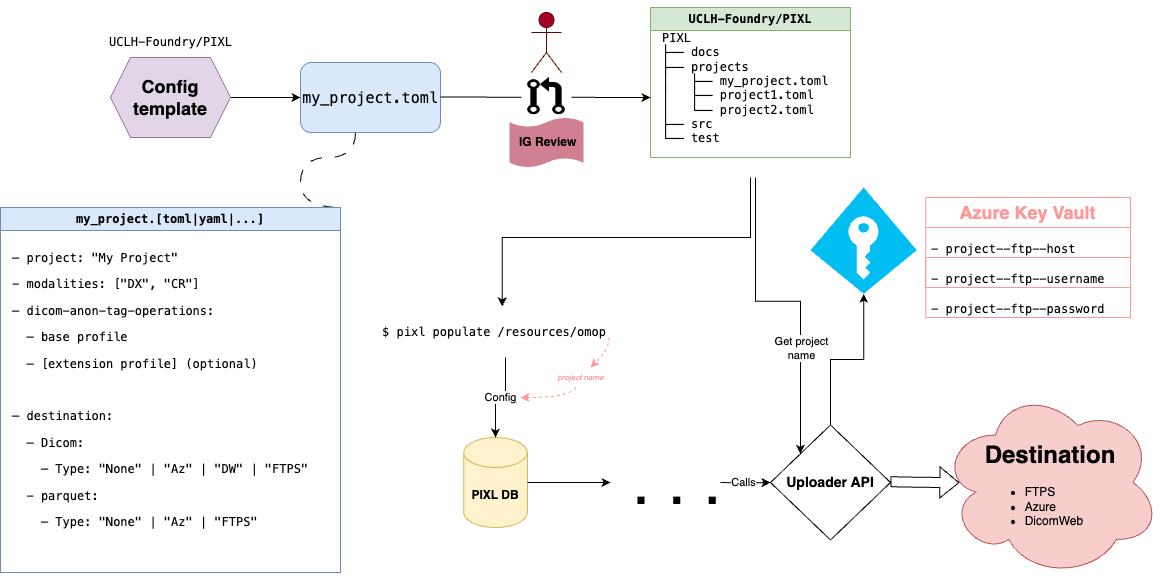
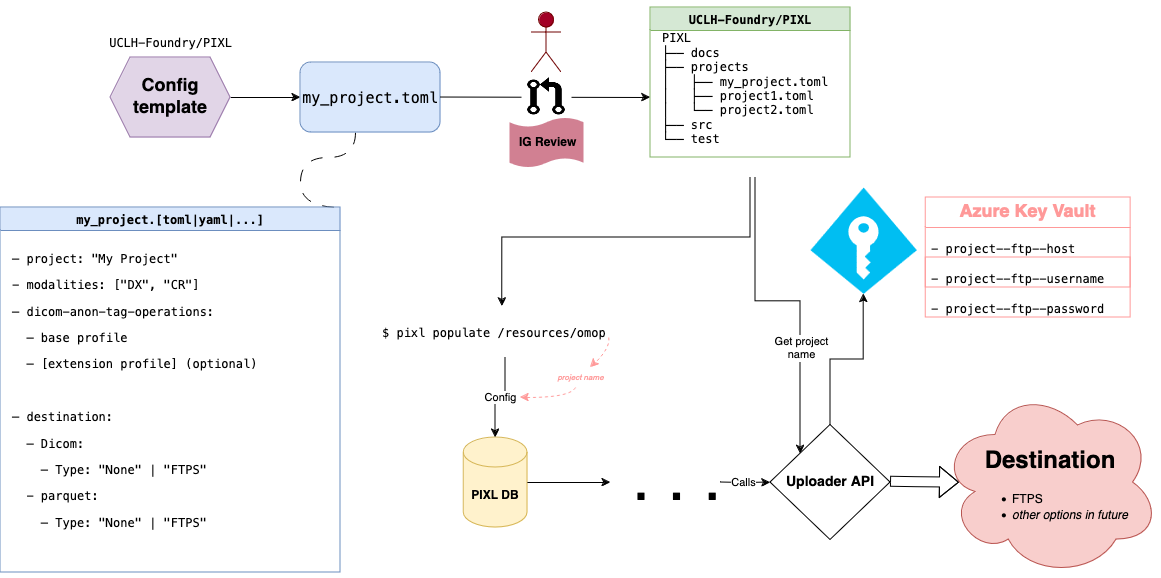
remove mention of non-existing options in enum and in diagram

diff --git a/pixl_core/src/core/project_config.py b/pixl_core/src/core/project_config.py
@@ -64,8 +64,6 @@ class _DestinationEnum(str, Enum):
 
     none = "none"
     ftps = "ftps"
-    azure = "azure"
-    dicomweb = "dicomweb"
 
 
 class _Destination(BaseModel):
